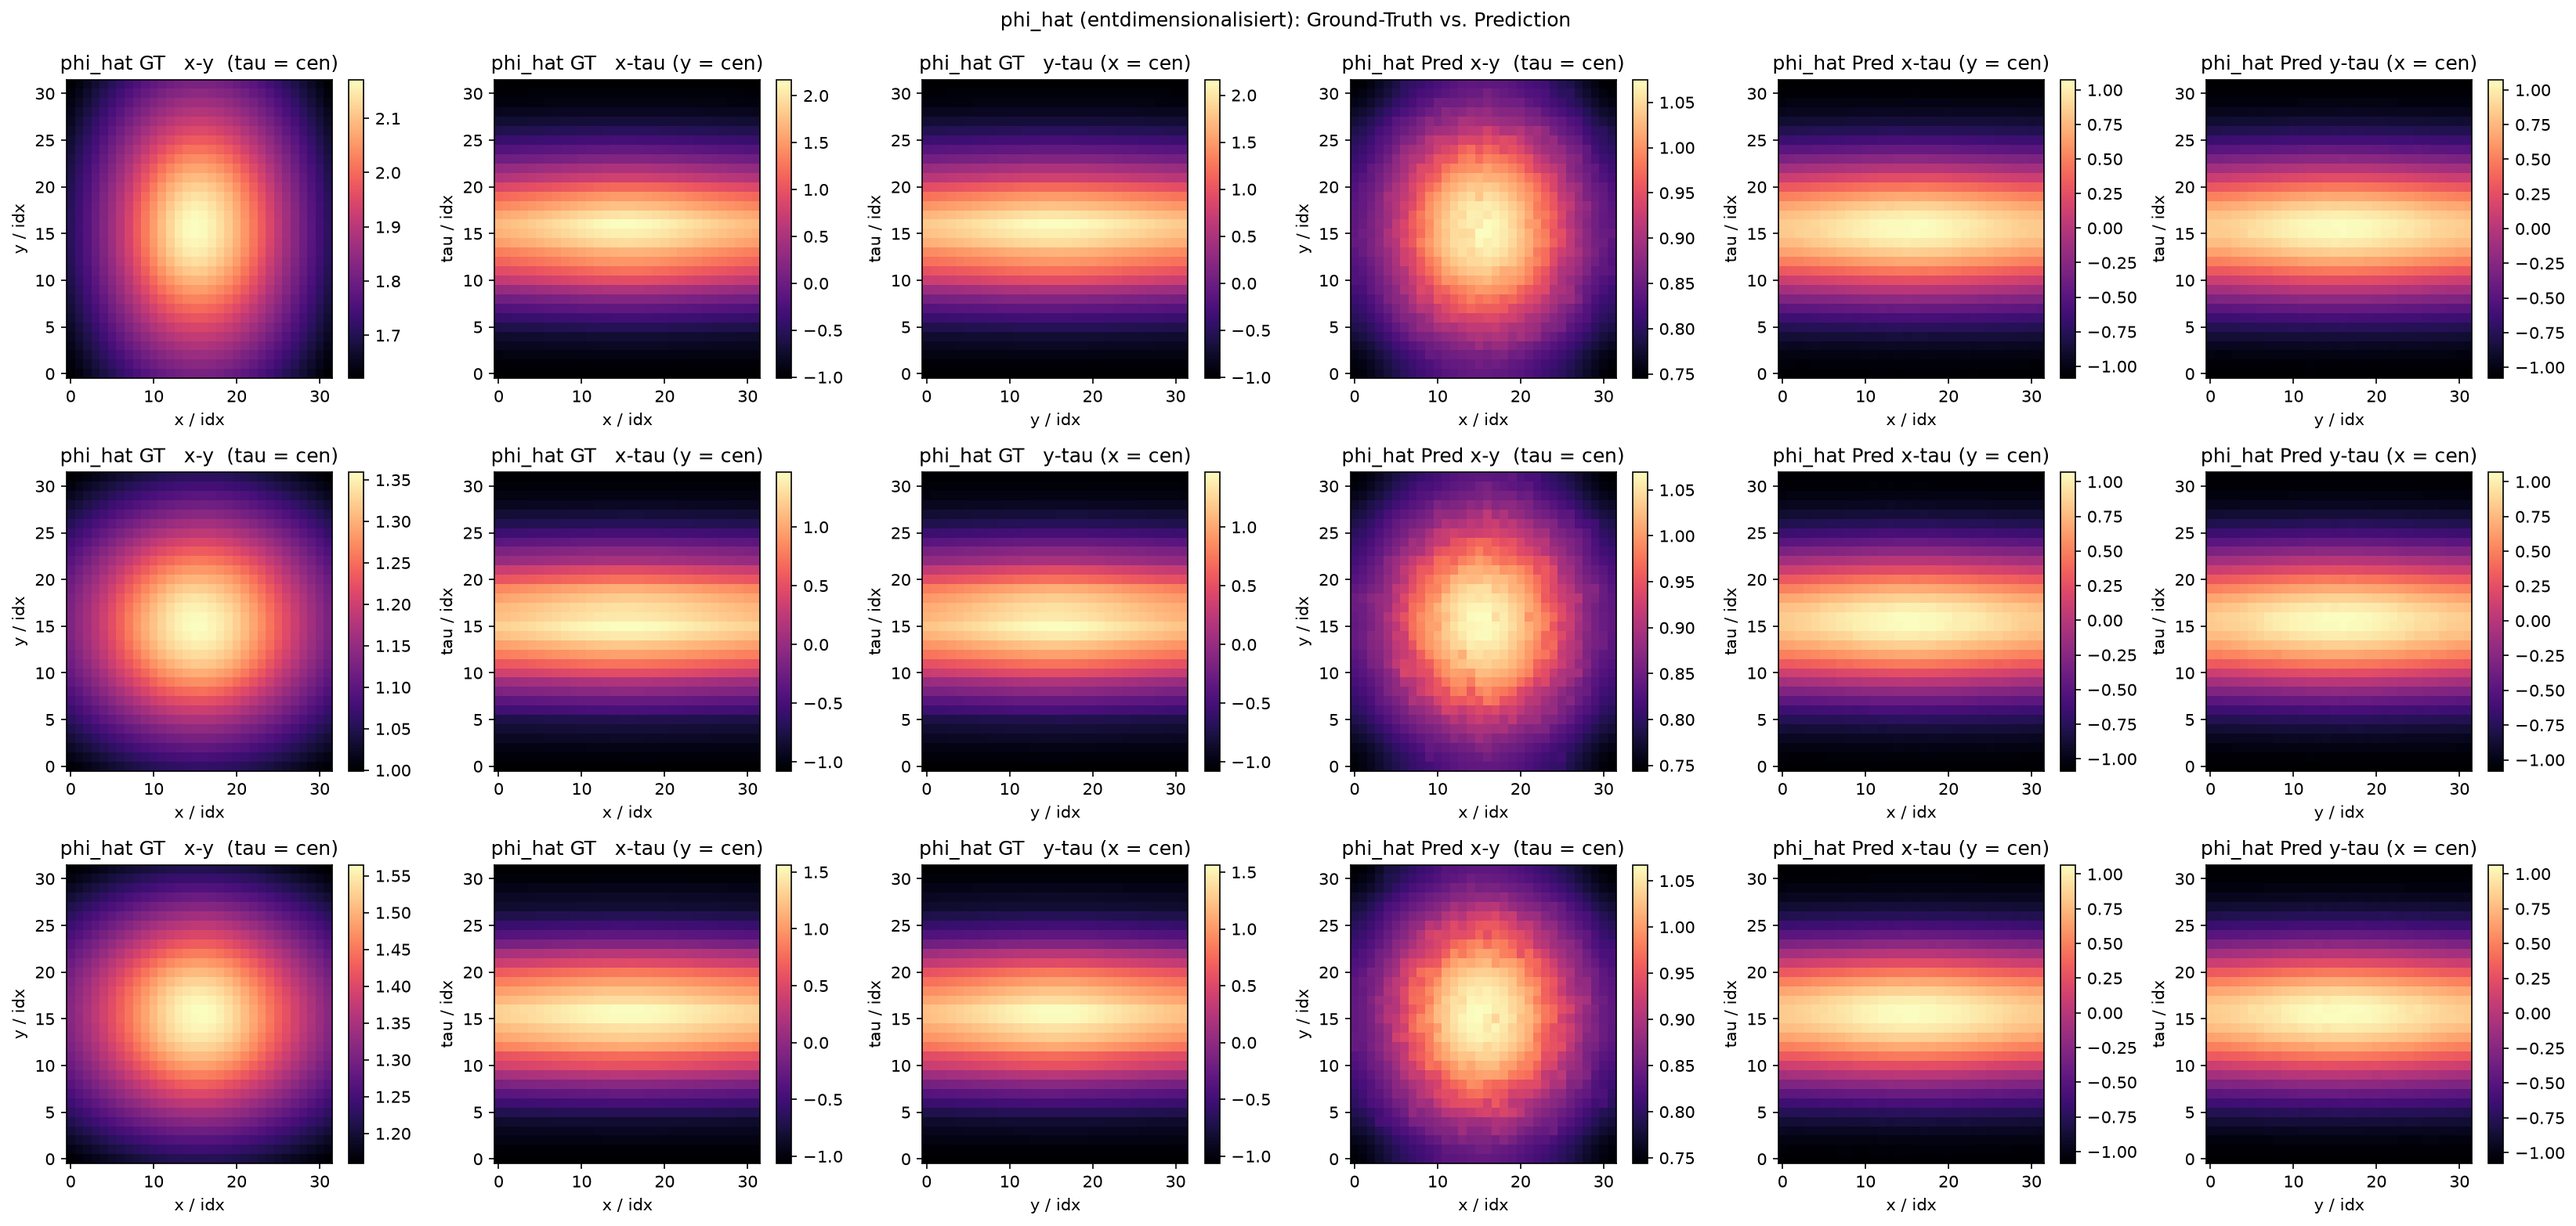
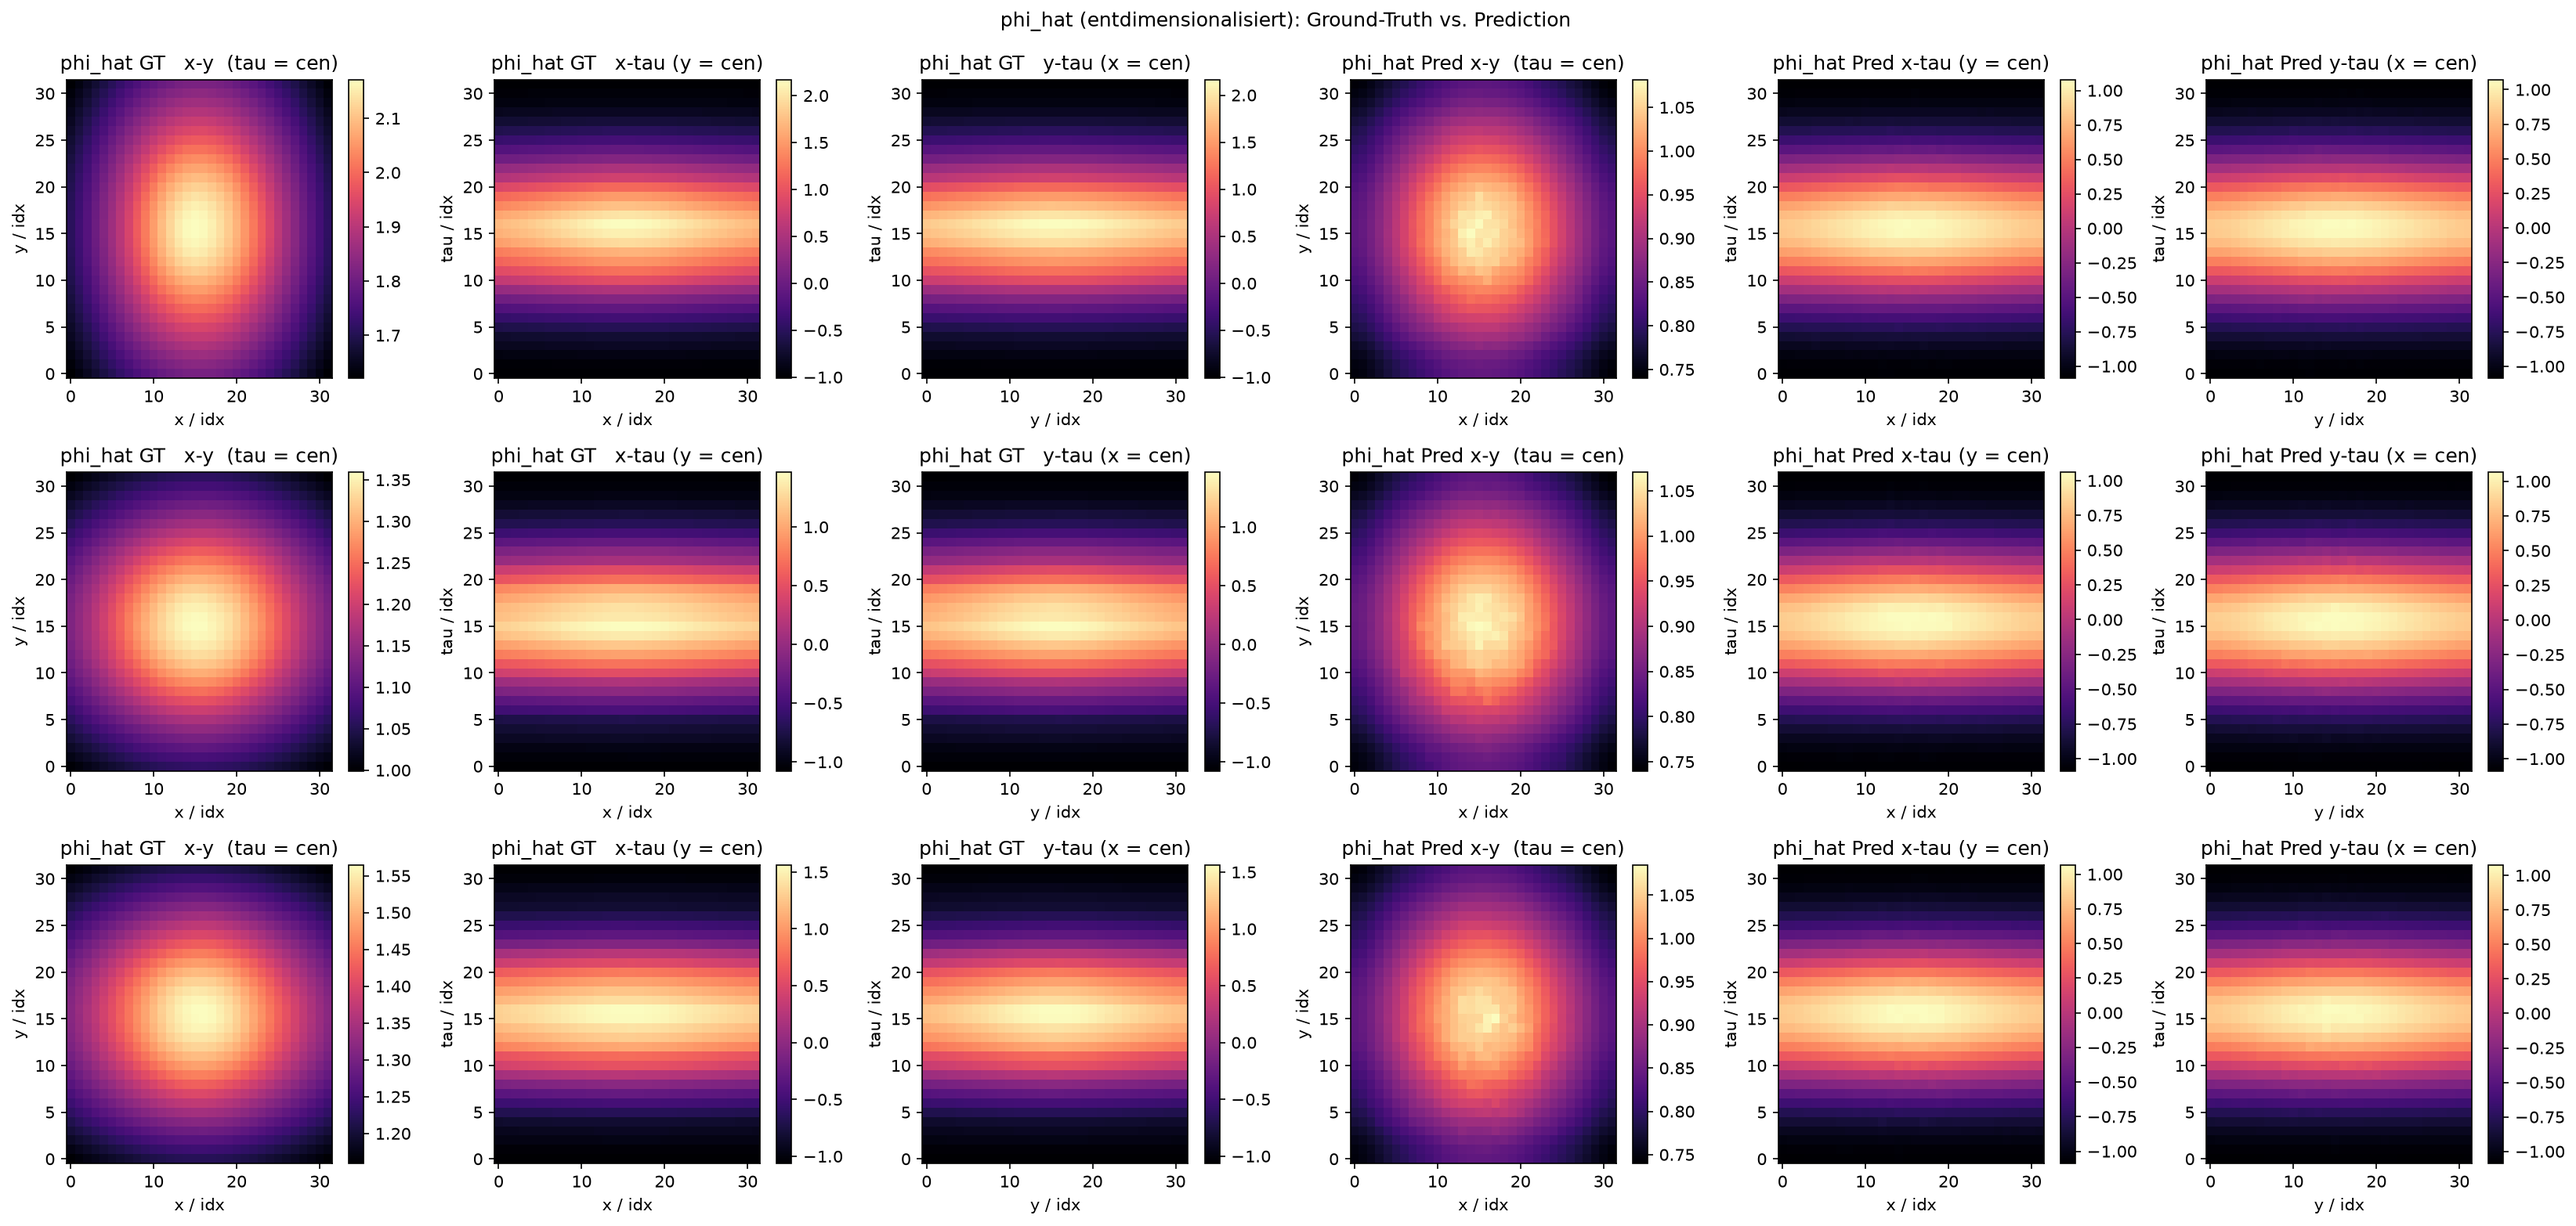
modell auf mehr Auflösungen getestet

Changed region(s): [[0.5274, 0.7356, 0.6204, 0.8889]]

diff --git a/Neural Operator Pipeline/src/cheetah_sc/dataset.py b/Neural Operator Pipeline/src/cheetah_sc/dataset.py
@@ -113,6 +113,15 @@ class CheetahDataset(PTDataset):
                     ranges=ranges,
                 )
 
+        if len(n_tests) != len(test_resolutions):
+            raise ValueError(
+                f"n_tests ({len(n_tests)}) must match test_resolutions ({len(test_resolutions)})"
+            )
+        if len(test_batch_sizes) != len(test_resolutions):
+            raise ValueError(
+                f"test_batch_sizes ({len(test_batch_sizes)}) must match test_resolutions ({len(test_resolutions)})"
+            )
+
         super().__init__(
             root_dir=root_dir,
             dataset_name=DATASET_NAME,

diff --git a/Neural Operator Pipeline/scripts/smoke_train.py b/Neural Operator Pipeline/scripts/smoke_train.py
@@ -151,8 +151,8 @@ def main() -> int:
 
     # --- Daten: kleines Setup, wird bei Bedarf generiert (generate=True) ---
     n_train, batch_size = 16, 4
-    n_tests, test_batch_sizes = [4, 4], [4, 4]
-    train_resolution, test_resolutions = 16, [16, 32]
+    n_tests, test_batch_sizes = [4, 4, 4, 4], [4, 4, 4, 4]
+    train_resolution, test_resolutions = 16, [16, 32, 64, 128]
 
     print("== load_cheetah_sc (Daten laden/generieren) ==")
     train_loader, test_loaders, data_processor = load_cheetah_sc(
